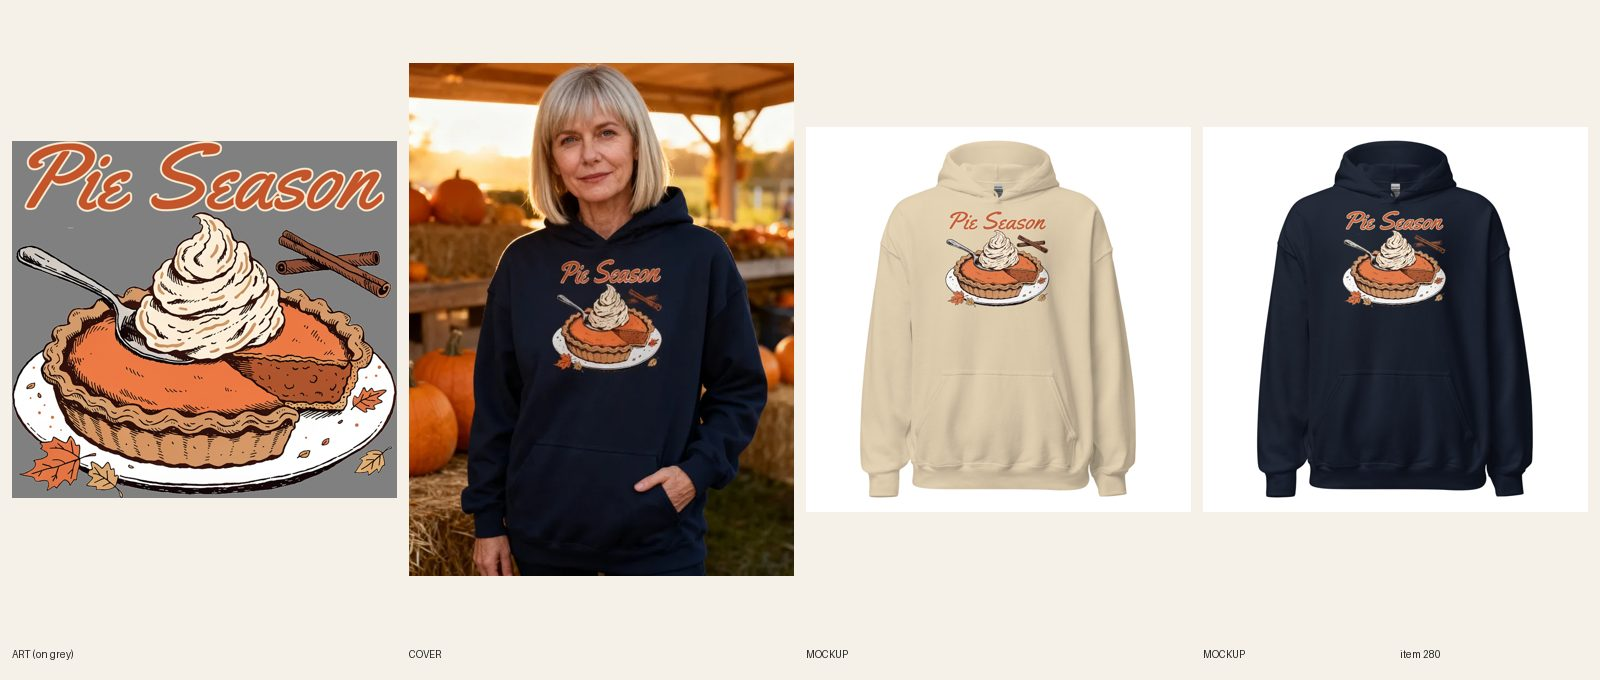
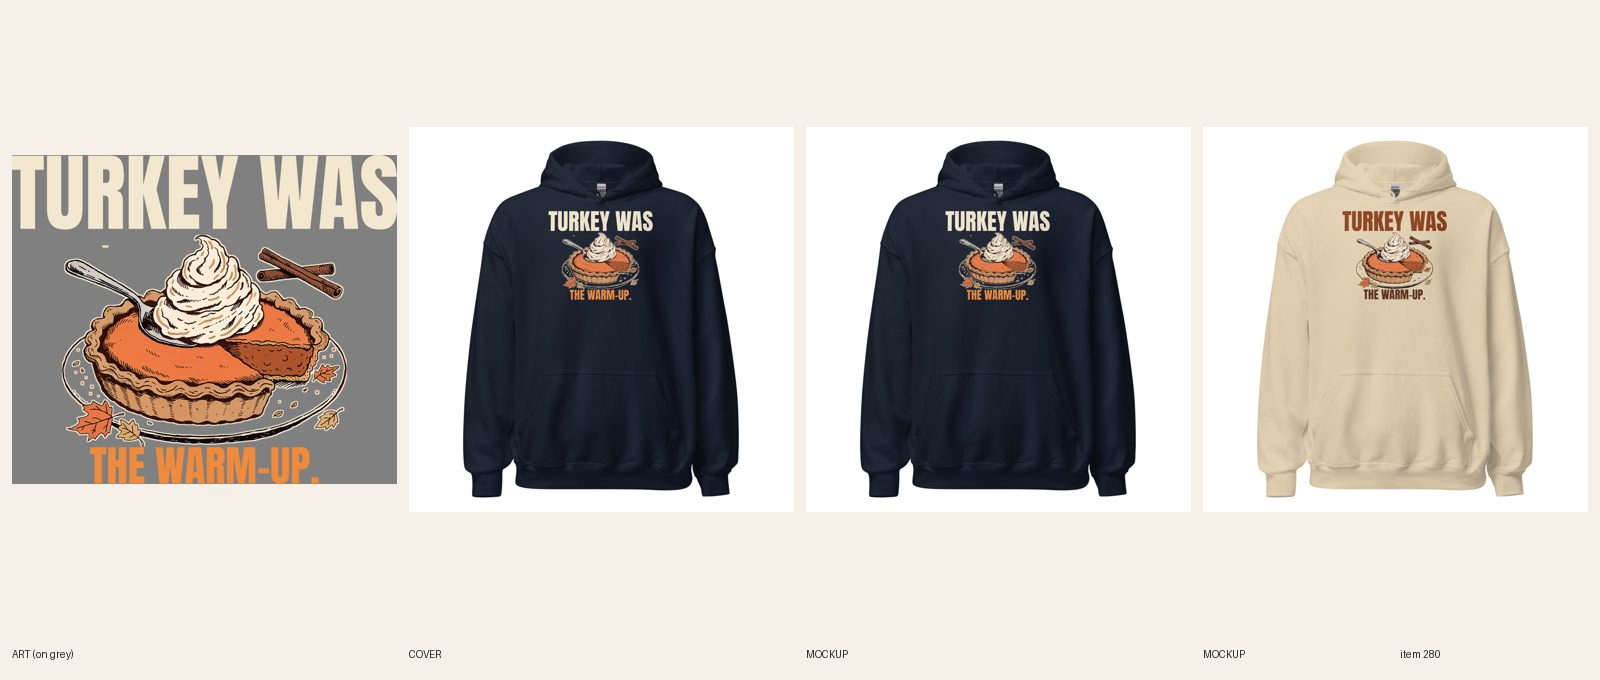
[B] review 280 Turkey Was the Warm-Up pumpkin hoodie (line + type redo)

diff --git a/docs/pipeline/280-thanksgiving-hoodie-pie-season.md b/docs/pipeline/280-thanksgiving-hoodie-pie-season.md
@@ -1,4 +1,4 @@
-status: REDO
+status: REVIEW
 lane: B
 type: twin
 id: 280
@@ -27,3 +27,4 @@ kd: 54
 - 2026-10-17 21:09 UTC builder [B]: synced 12/12. REVIEW. Sheet docs/review/280.jpg.
 - 2026-10-17 21:19 UTC director: LIVE. sheet seen: Pie Season twin, script reads on Sand and Navy; cover woman 50s at a farm-stand pie table. ACTIVE + Online Store, Headless, Google & YouTube; audit --handle PASS.
 - 2026-10-18 17:22 UTC director: QUALITY RESET grade C (new line + type), REDO. The product stays ACTIVE (same handle, URL, title keyword). 1. Line (R3.12, quality-reset 'Lines'): "Pie Season": Seasonal label, no joke; thin script headline. Write 5 candidates, keep the one a stranger laughs at in 3 seconds without backstory; kill lines that only describe the picture; if none of the 5 is funny, PARK it. 2. Quality reset type bar (docs/backlog/quality-reset.md, 'The new bar'): headline at least 90% of the art width, heavy, colors pulled from the art; second line at least 45% of the headline's height, never a thin script on a dark or mid garment; use the lettering as a shape (arch, stacked lockup, words breaking into the art), not a plain bar above and a script line below; no font used on more than 1 in 6 of the last 30 designs. 3. Keep the art if it carries the new line, else one new illustration (R4/R5). New print means a new cover per R6.10, copy line one rewritten for the new joke (R8.3), and a fresh review sheet (R7.7). While quality-reset.md says PAUSED, only lane A builds, and only the samples step 2 names.
+- 2026-10-20 05:40 UTC builder [B]: REDO 280 (C grade, line + type) done in place (stays ACTIVE, handle unchanged; title now "Women's Thanksgiving – Turkey Was the Warm-Up Pumpkin Hoodie"). 5 candidates: "TURKEY WAS / THE WARM-UP."; "Dinner Is Just The Opening Act"; "Saving Room. For Pie."; "Pie Is The Main Course"; "Pie Before Dinner Allowed". Kept TURKEY WAS / THE WARM-UP. (dessert-first guest, stranger gets it in 3 seconds, the pie is the answer). Same pie art (script erased already), no fal ($0). Anton at full print width (headline 135% of art width), second line 50% of headline height. Navy file 1090154487 (cream + orange, thin cream halo; white plate knocked out); Sand light file 1090154500 (headline fill rust #8a3a14, second line brown; light file logged for Sand). FW 1500 TOP 0 (8.6 in tall, clear of the pouch). 12/12 synced on the right file per color, back logo kept. Fronts + back replaced in place, alts, title, SEO, copy, FAQs updated (ink named from the mockups). Phone-size read OK on both. Cover: handle added to retired-covers.json. audit --handle PASS (1 warn: no thanksgiving-collection tag, as before). Sheet docs/review/280.jpg.

diff --git a/docs/intake-log.md b/docs/intake-log.md
@@ -1,6 +1,7 @@
 RUNNING director since 2026-10-20 04:12 UTC
 2026-10-20 03:47 UTC — [H] Helper run: audit 607 products, 0 errors, 30 warnings (no scripted ERRORs to fix). Category check: 0 products without a Shopify category. Site check: 3 newest LIVE pages (#618, #578, #548) all 200. Stuck-work check: nothing BUILDING, all locks under 2h. Telegram: no new messages. Announcement bar already on holiday line. Daily summary not due (before 12:00 UTC). Lock released.
 2026-10-20 04:08 UTC — [E] Builder run: redid #443 Unisex Mothman hoodie (line + type: SIGHTINGS BY APPOINTMENT ONLY., new sleeping Mothman art, Navy + Sand files, 12/12 synced, copy updated, plain product shot). REVIEW. fal $0.04.
+2026-10-20 04:13 UTC — [B] Builder run: redid #280 Women's Thanksgiving pumpkin hoodie (line + type: TURKEY WAS / THE WARM-UP., same pie art, Anton, Navy + Sand light files, 12/12 synced). REVIEW. fal $0.
 2026-10-20 03:57 UTC — [E] Builder run: redid #409 Men's Trucker heavyweight hoodie (line + type: MY ETA IS AFTER PIE., new semi + diner + pie art, Storm Blue + Sandstone files, 12/12 synced, copy updated, plain product shot). REVIEW. fal $0.04.
 2026-10-20 04:04 UTC — [B] Builder run: redid #440 Men's Pig oversized hoodie (line + type: OUT OF OFFICE. / IN THE MUD., new pig art, Fraunces, Navy + Dust light files, 12/12 synced); retitled #362 and #404. REVIEW. fal $0.04.
 RUNNING lane B since 2026-10-20 03:28 UTC
